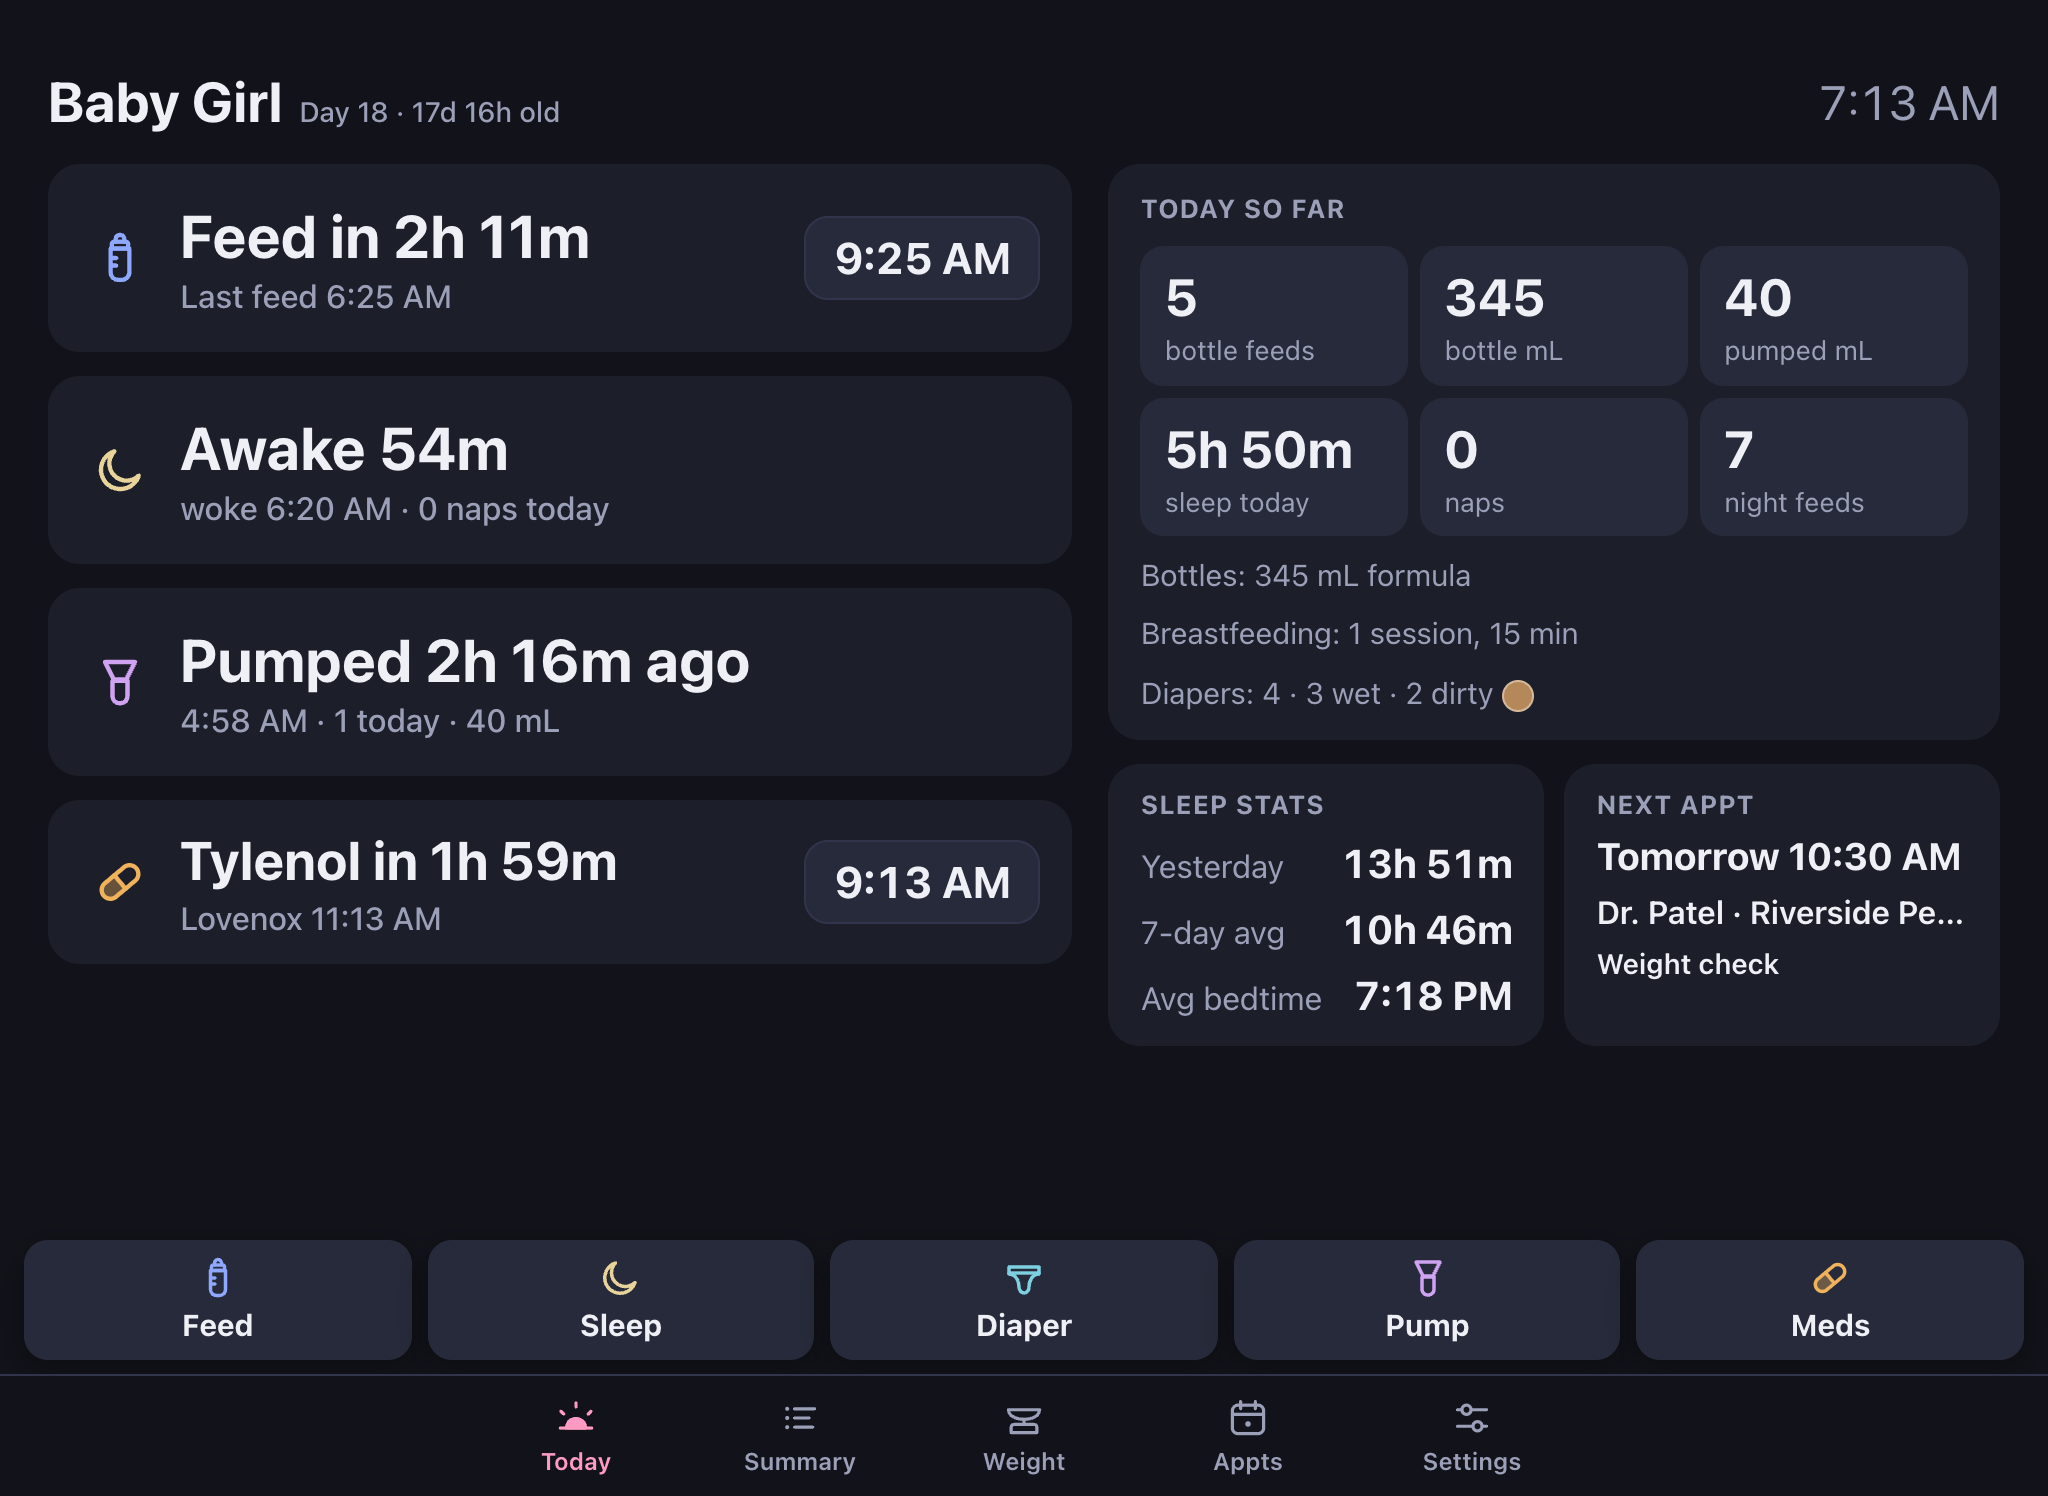
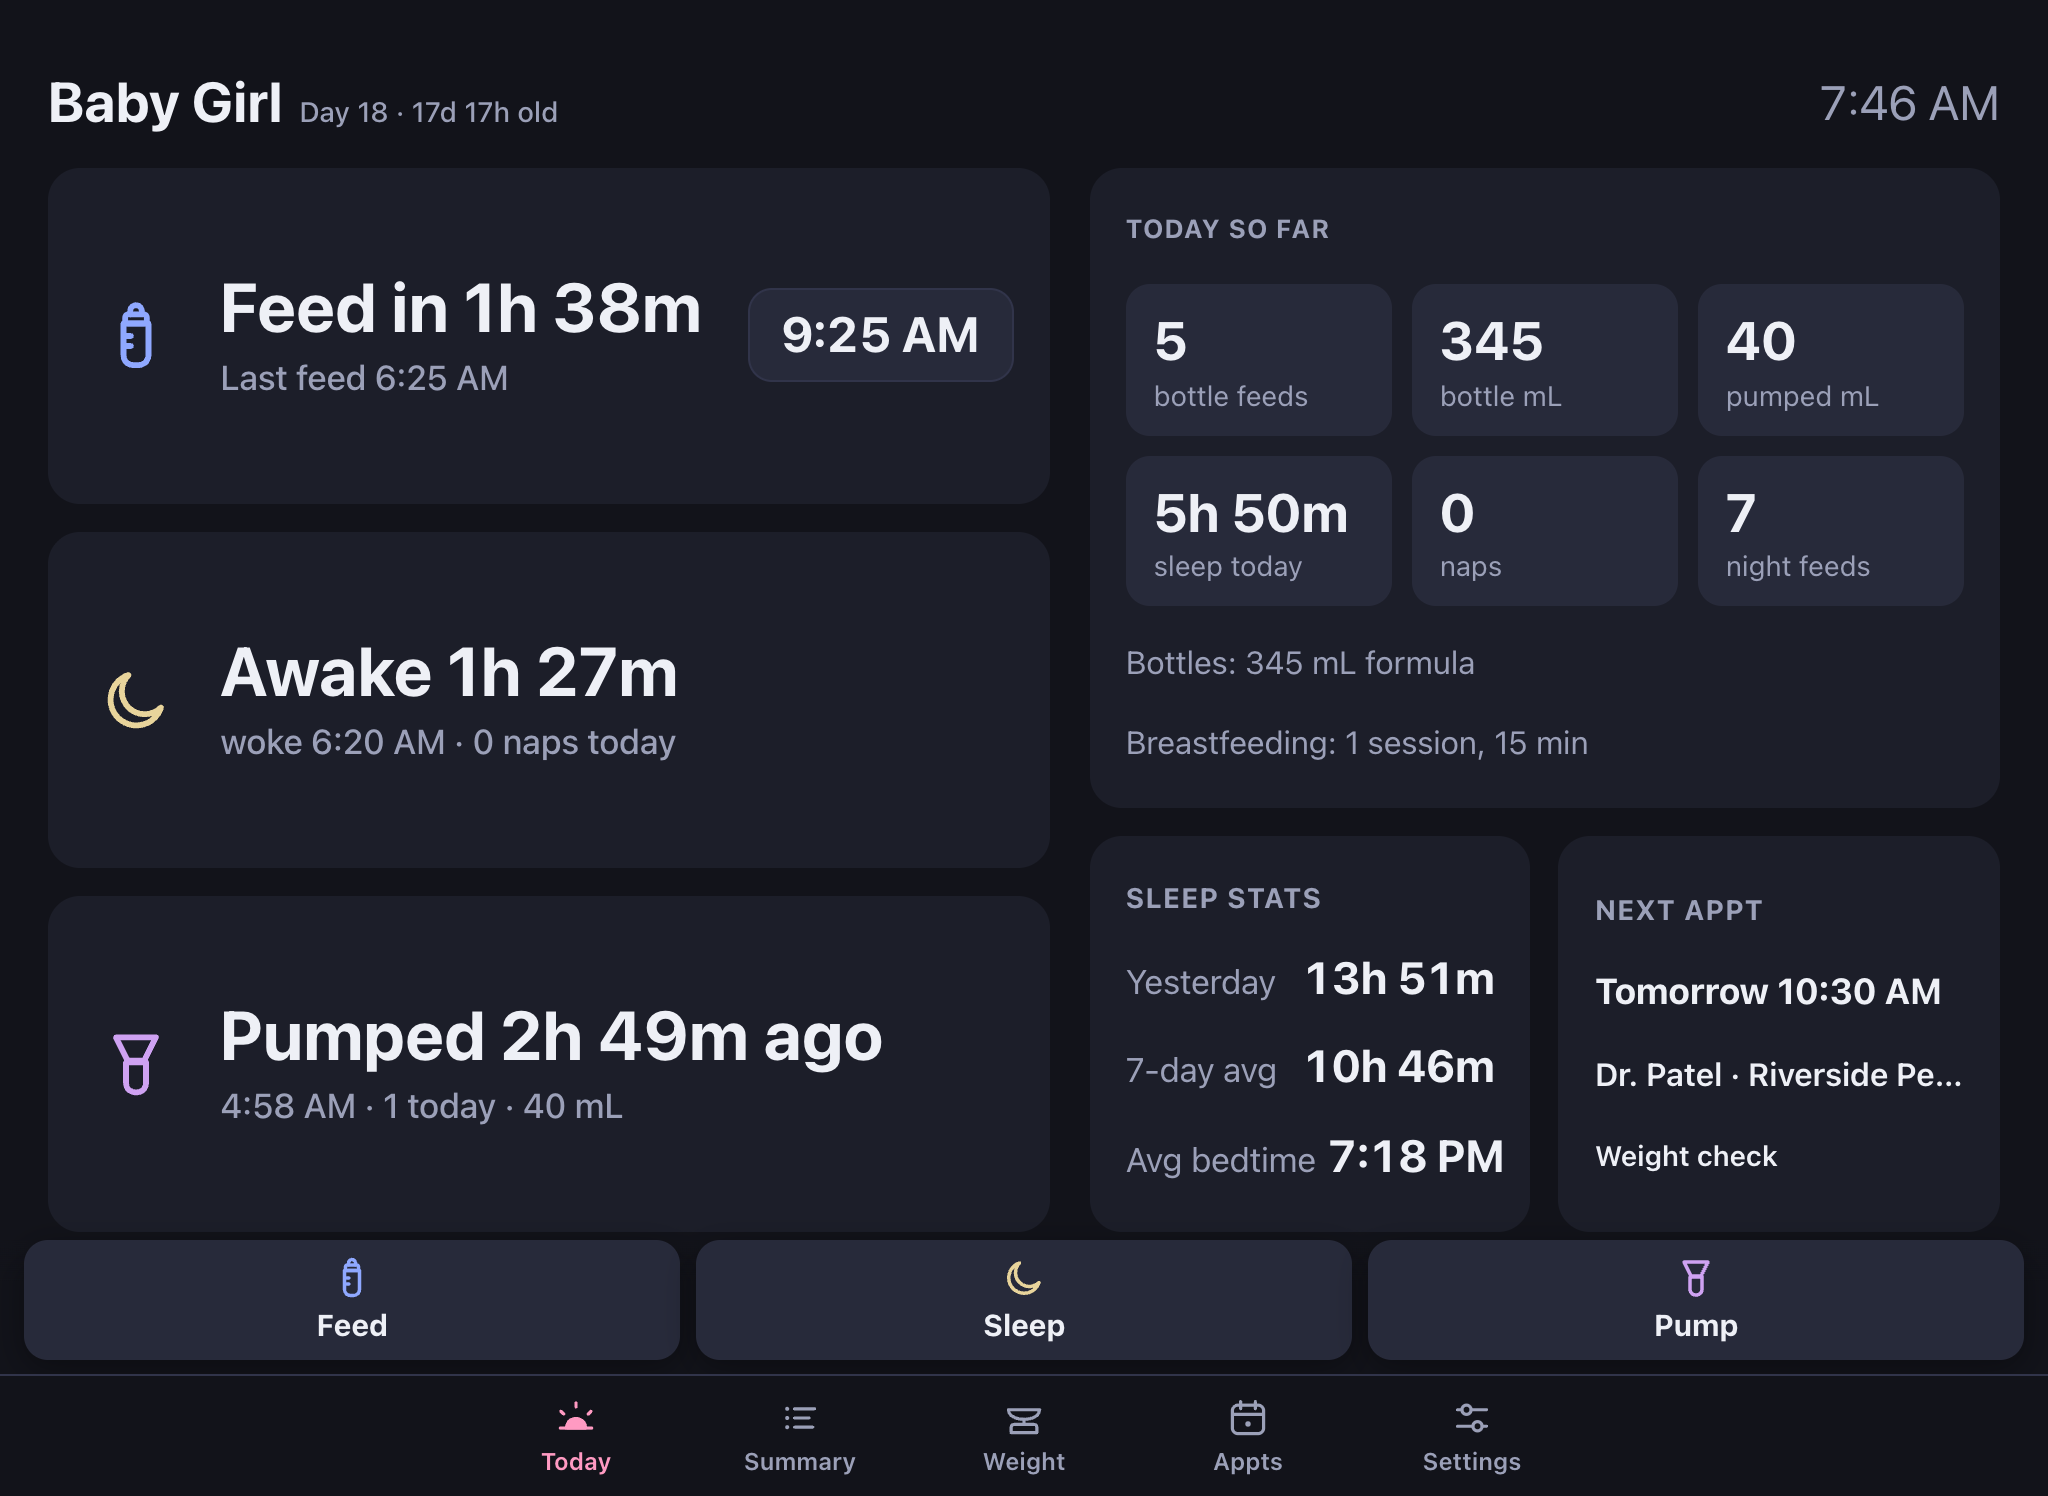
iPad landscape: both columns fill the screen, larger type, long countdowns wrap

diff --git a/src/styles.css b/src/styles.css
@@ -265,25 +265,34 @@ table.compare td:nth-child(2) { font-weight: 700; }
 .col-glance, .col-stats { display: contents; }
 @media (min-width: 960px) and (orientation: landscape) {
   .app:has(.screen.today), .app:has(.screen.summary) { max-width: 1180px; }
-  .screen.today { display: grid; grid-template-columns: 1.15fr 1fr; grid-template-rows: auto 1fr; column-gap: 18px; row-gap: 12px; align-content: start; padding-inline: 24px; }
-  .screen.today > .row { grid-column: 1 / -1; }
-  .screen.today > .row h1 { font-size: 28px; }
-  .screen.today > .row .mono { font-size: 24px; }
-  .col-glance, .col-stats { display: flex; flex-direction: column; gap: 12px; min-width: 0; }
-  .screen.today .timer { font-size: 27px; padding: 12px 8px; }
-  .screen.today .card.timers.hero .timer { font-size: 30px; padding: 16px 8px; }
-  .screen.today .timer .sub { font-size: 16px; }
-  .screen.today .timer .ico { width: 40px; }
-  .screen.today .timer .ico svg { width: 30px; height: 30px; }
-  .screen.today .timer .due { font-size: 22px; padding: 9px 14px; }
-  .screen.today .card.compact { padding: 14px 16px; gap: 10px; }
-  .screen.today .card.compact .stat { padding: 8px 12px; }
-  .screen.today .card.compact .stat .v { font-size: 26px; }
-  .screen.today .card.compact .stat .k { font-size: 13.5px; }
-  .screen.today .card.compact.sofar > .small { font-size: 15px; }
-  .screen.today .duo .card { padding: 12px 16px; gap: 6px; }
-  .screen.today .card.nights .kv { font-size: 16px; }
-  .screen.today .card.nights .kv b { font-size: 20px; }
+  /* Fill the screen: the two columns share the height between the header and the dock. */
+  .app .screen.today { display: grid; grid-template-columns: 1.1fr 1fr; grid-template-rows: auto minmax(0, 1fr); column-gap: 20px; row-gap: 14px; height: 100vh; height: 100svh; padding-inline: 24px; }
+  .app .screen.today > .row { grid-column: 1 / -1; }
+  .app .screen.today > .row h1 { font-size: 28px; }
+  .app .screen.today > .row .mono { font-size: 24px; }
+  .app .col-glance, .app .col-stats { display: flex; flex-direction: column; gap: 14px; min-width: 0; min-height: 0; }
+  /* Left: each timer card takes an equal share of the column, content centred. */
+  .app .col-glance > .card { flex: 1 1 0; justify-content: center; padding-block: 8px; min-height: 0; }
+  .app .col-glance > .card > .timer { flex: 1; }
+  .app .screen.today .timer, .app .screen.today .card.timers.hero .timer { font-size: clamp(28px, 4.6vh, 40px); padding: 8px 10px; gap: 16px; }
+  .app .screen.today .timer .sub { font-size: clamp(16px, 2.3vh, 20px); margin-top: 4px; }
+  .app .screen.today .timer .ico { width: 52px; }
+  .app .screen.today .timer .ico svg { width: 40px; height: 40px; }
+  .app .screen.today .timer .due { font-size: clamp(22px, 3.3vh, 28px); padding: 10px 16px; }
+  /* Right: Today so far takes what it needs, the stats and appointment cards share the rest. */
+  .app .screen.today .card.compact.sofar { flex: 1 1 auto; justify-content: space-evenly; padding: 16px 18px; gap: 12px; }
+  .app .screen.today .card.compact.sofar .stats { gap: 10px; }
+  .app .screen.today .card.compact .stat { padding: 10px 14px; }
+  .app .screen.today .card.compact .stat .v { font-size: clamp(24px, 3.6vh, 32px); }
+  .app .screen.today .card.compact .stat .k { font-size: 14px; }
+  .app .screen.today .card.compact.sofar > .small { font-size: 16px; }
+  .app .screen.today .duo { flex: 1 1 auto; gap: 14px; }
+  .app .screen.today .duo .card { padding: 16px 18px; gap: 8px; justify-content: space-evenly; }
+  .app .screen.today .card.nights .kv { font-size: 17px; }
+  .app .screen.today .card.nights .kv b { font-size: clamp(20px, 3vh, 26px); }
+  .app .screen.today .duo .card h3 { font-size: 14px; }
+  /* Long countdowns wrap rather than being cut off */
+  .app .col-glance .timer .grow > span:first-child { white-space: normal; overflow: visible; line-height: 1.1; }
   .dock > div { max-width: 1000px; }
   .dock button { height: 60px; font-size: 15px; }
 }

diff --git a/docs/release-notes/index.html b/docs/release-notes/index.html
@@ -587,7 +587,7 @@
       <div class="body">
         <h2>A nightstand screen</h2>
         <ul class="notes">
-          <li><b>An iPad layout.</b> Held sideways, Today splits into two columns: the countdowns large on the left, readable from across the room, and the day's totals, sleep stats and next appointment on the right. Phones and an upright iPad keep the single column.</li>
+          <li><b>An iPad layout.</b> Held sideways, Today splits into two columns that fill the screen: the countdowns large on the left, readable from across the room, and the day's totals, sleep stats and next appointment on the right. Phones and an upright iPad keep the single column.</li>
           <li><b>Keep screen awake.</b> A switch in Settings keeps the screen on while the app is open, so a plugged-in iPad never locks.</li>
           <li><b>Dim at night.</b> Pick Dim or Dimmer and the hours, and the whole screen dims and warms on that schedule. Everything still works underneath.</li>
           <li><b>Per device.</b> Both live in a new "This device" card at the top of Settings and only affect the screen you set them on, so the iPad can stay awake and dim without touching your phones.</li>
